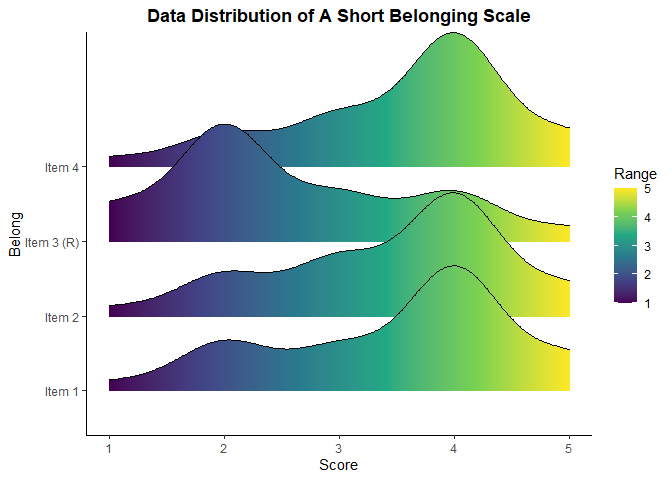
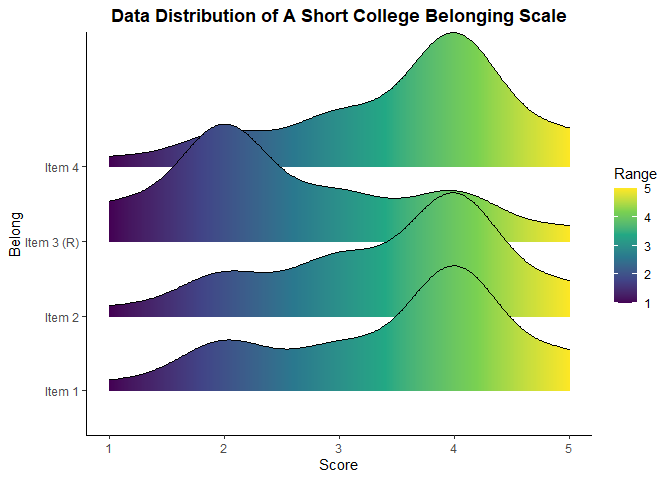
name

Changed region(s): [[0.1562, 0.0, 0.8438, 0.0625]]

diff --git a/p08/p08.md b/p08/p08.md
@@ -149,7 +149,7 @@ was also having trouble of naming the legend.
 ``` r
 ggplot(Be_A, aes(x = Score, y = Belong, fill = stat(x))) + geom_density_ridges_gradient(bandwidth = 0.4) +
   scale_fill_viridis_c(name = "Range", limits=c(1, 5), breaks=seq(1,5,by=1))  + coord_cartesian(clip = "off") +
-  theme_classic() + scale_x_continuous(limit = c(1, 5)) + labs(title = "Data Distribution of A Short Belonging Scale") + theme(plot.title = element_text(face = "bold", hjust = 0.5))
+  theme_classic() + scale_x_continuous(limit = c(1, 5)) + labs(title = "Data Distribution of A Short College Belonging Scale") + theme(plot.title = element_text(face = "bold", hjust = 0.5))
 ```
 
 ![](p08_files/figure-gfm/unnamed-chunk-6-1.png)<!-- --> I really like
@@ -157,7 +157,7 @@ the final look.
 
 ``` r
 ggplot(Be_A, aes(x = Score, y = Belong, fill = Belong)) +   geom_density_ridges(fill = "#79af97", alpha = 0.5, bandwidth = 0.4) +
-  theme_classic() + scale_x_continuous(limit = c(1, 5)) + labs(title = "Data Distribution of A Short Belonging Scale") + theme(plot.title = element_text(face = "bold", hjust = 0.5))
+  theme_classic() + scale_x_continuous(limit = c(1, 5)) + labs(title = "Data Distribution of A Short College Belonging Scale") + theme(plot.title = element_text(face = "bold", hjust = 0.5))
 ```
 
 ![](p08_files/figure-gfm/unnamed-chunk-7-1.png)<!-- -->
